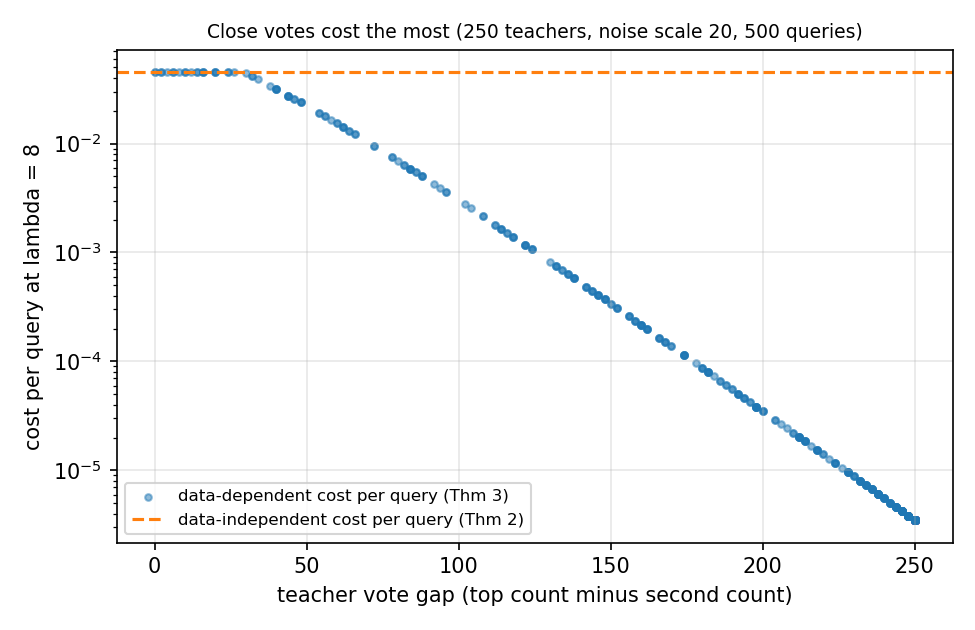
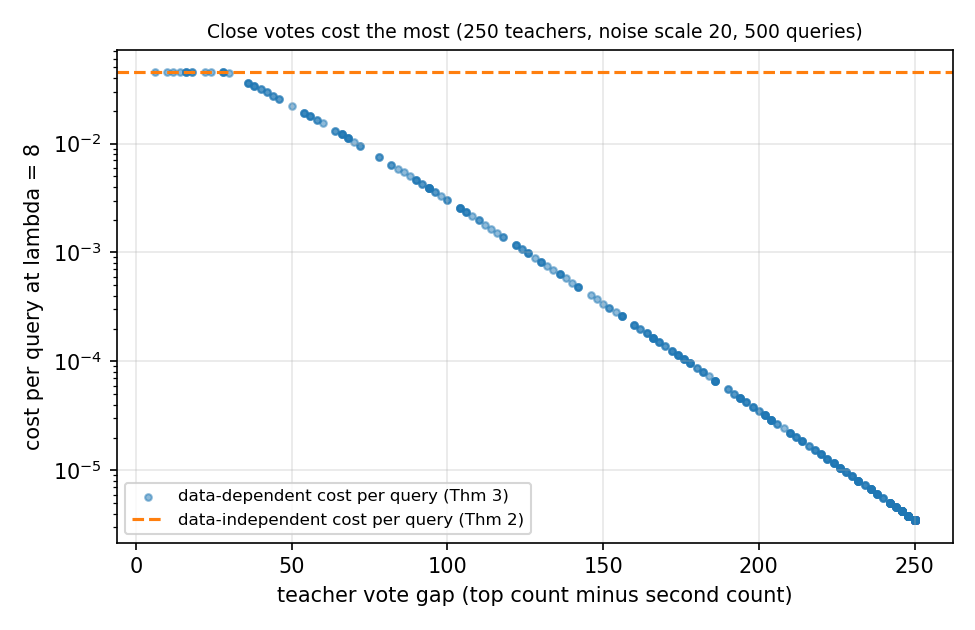
m2: nested query sets; regenerate results

diff --git a/member2_privacy/aggregate.py b/member2_privacy/aggregate.py
@@ -32,7 +32,9 @@ def aggregate_and_account(cfg: ExperimentConfig) -> PrivacyReport:
         if len(idx) != cfg.n_queries or idx.min() < 0:
             raise ValueError("query_request.npy must hold n_queries valid, unique public indices")
     else:
-        idx = np.sort(np.random.default_rng(cfg.seed).choice(m.n_public, cfg.n_queries, replace=False))
+        # first n_queries of one seeded permutation: sets for 100 < 500 < 1000 queries are nested (as the paper's
+        # "first N inputs"), so epsilon can only grow with the number of queries for a fixed seed and noise scale
+        idx = np.sort(np.random.default_rng(cfg.seed).permutation(m.n_public)[:cfg.n_queries])
     counts = vote_counts(votes[:, idx], m.n_classes)
     labels = noisy_argmax(counts, cfg.noise_scale, np.random.default_rng(cfg.seed + 10_000))
     check_labels(idx, labels, m)

diff --git a/tests/test_member2.py b/tests/test_member2.py
@@ -121,3 +121,15 @@ def test_query_request_wrong_length_is_rejected(tmp_path, monkeypatch):
     np.save(art_dir(cfg.run_id) / "query_request.npy", np.arange(40))
     with pytest.raises(ValueError):
         aggregate_and_account(cfg)
+
+
+def test_query_sets_are_nested_so_epsilon_grows_with_queries(tmp_path, monkeypatch):
+    monkeypatch.setattr(paths, "ARTIFACT_ROOT", str(tmp_path))
+    eps, sets = [], []
+    for q in (100, 500, 1000):
+        cfg = ExperimentConfig(run_id=f"t100_b1_q{q}_s42", seed=42, n_teachers=100, noise_scale=1, n_queries=q)
+        make_dummy_artifacts(cfg, n_public=2000)
+        eps.append(aggregate_and_account(cfg).epsilon)
+        sets.append(set(np.load(art_dir(cfg.run_id) / paths.QUERY_IDX).tolist()))
+    assert sets[0] <= sets[1] <= sets[2]
+    assert eps[0] < eps[1] < eps[2]
